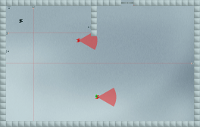
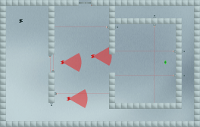
Changed Level1 Screens and added Level3 dummy Screens

diff --git a/src/me/zombieranke/Schatttenwanderer/LevelSelect.java b/src/me/zombieranke/Schatttenwanderer/LevelSelect.java
@@ -49,7 +49,7 @@ public class LevelSelect extends BasicGameState {
 		
 		for(int i = 1; i<=LevelHandler.levelCount;i++)
 		{
-			gui.add(new MenuFunc(new MouseOverArea(container, new Image("res/Level" + i + "_Unlighted.png"), 112 + ((i-1)%3)*300, 112 + row *227),new Image("res/Level" + i + "_Lighted.png"),LevelHandler.levelOffset+i));
+			gui.add(new MenuFunc(new MouseOverArea(container, new Image("res/Level" + i + "_Unlighted.png"), 240 + ((i-1)%3)*300, 112 + row *227),new Image("res/Level" + i + "_Lighted.png"),LevelHandler.levelOffset+i));
 			if(i%3==0)
 			{
 				row++;
@@ -123,7 +123,6 @@ public class LevelSelect extends BasicGameState {
 
 	@Override
 	public int getID() {
-		// TODO Auto-generated method stub
 		return ID;
 	}
 

diff --git a/src/me/zombieranke/Schatttenwanderer/EndScreen.java b/src/me/zombieranke/Schatttenwanderer/EndScreen.java
@@ -1,7 +1,6 @@
 package me.zombieranke.Schatttenwanderer;
 
 import org.newdawn.slick.Color;
-import org.newdawn.slick.Font;
 import org.newdawn.slick.GameContainer;
 import org.newdawn.slick.Graphics;
 import org.newdawn.slick.SlickException;

diff --git a/src/me/zombieranke/Schatttenwanderer/Schattenwanderer.java b/src/me/zombieranke/Schatttenwanderer/Schattenwanderer.java
@@ -47,7 +47,6 @@ public class Schattenwanderer extends StateBasedGame
 		addState(new OptionsScreen());
 		addState(new Level1());
 		addState(new Level2());
-		System.out.println("HIER");
 		addState(new LevelSelect());
 	}
 
